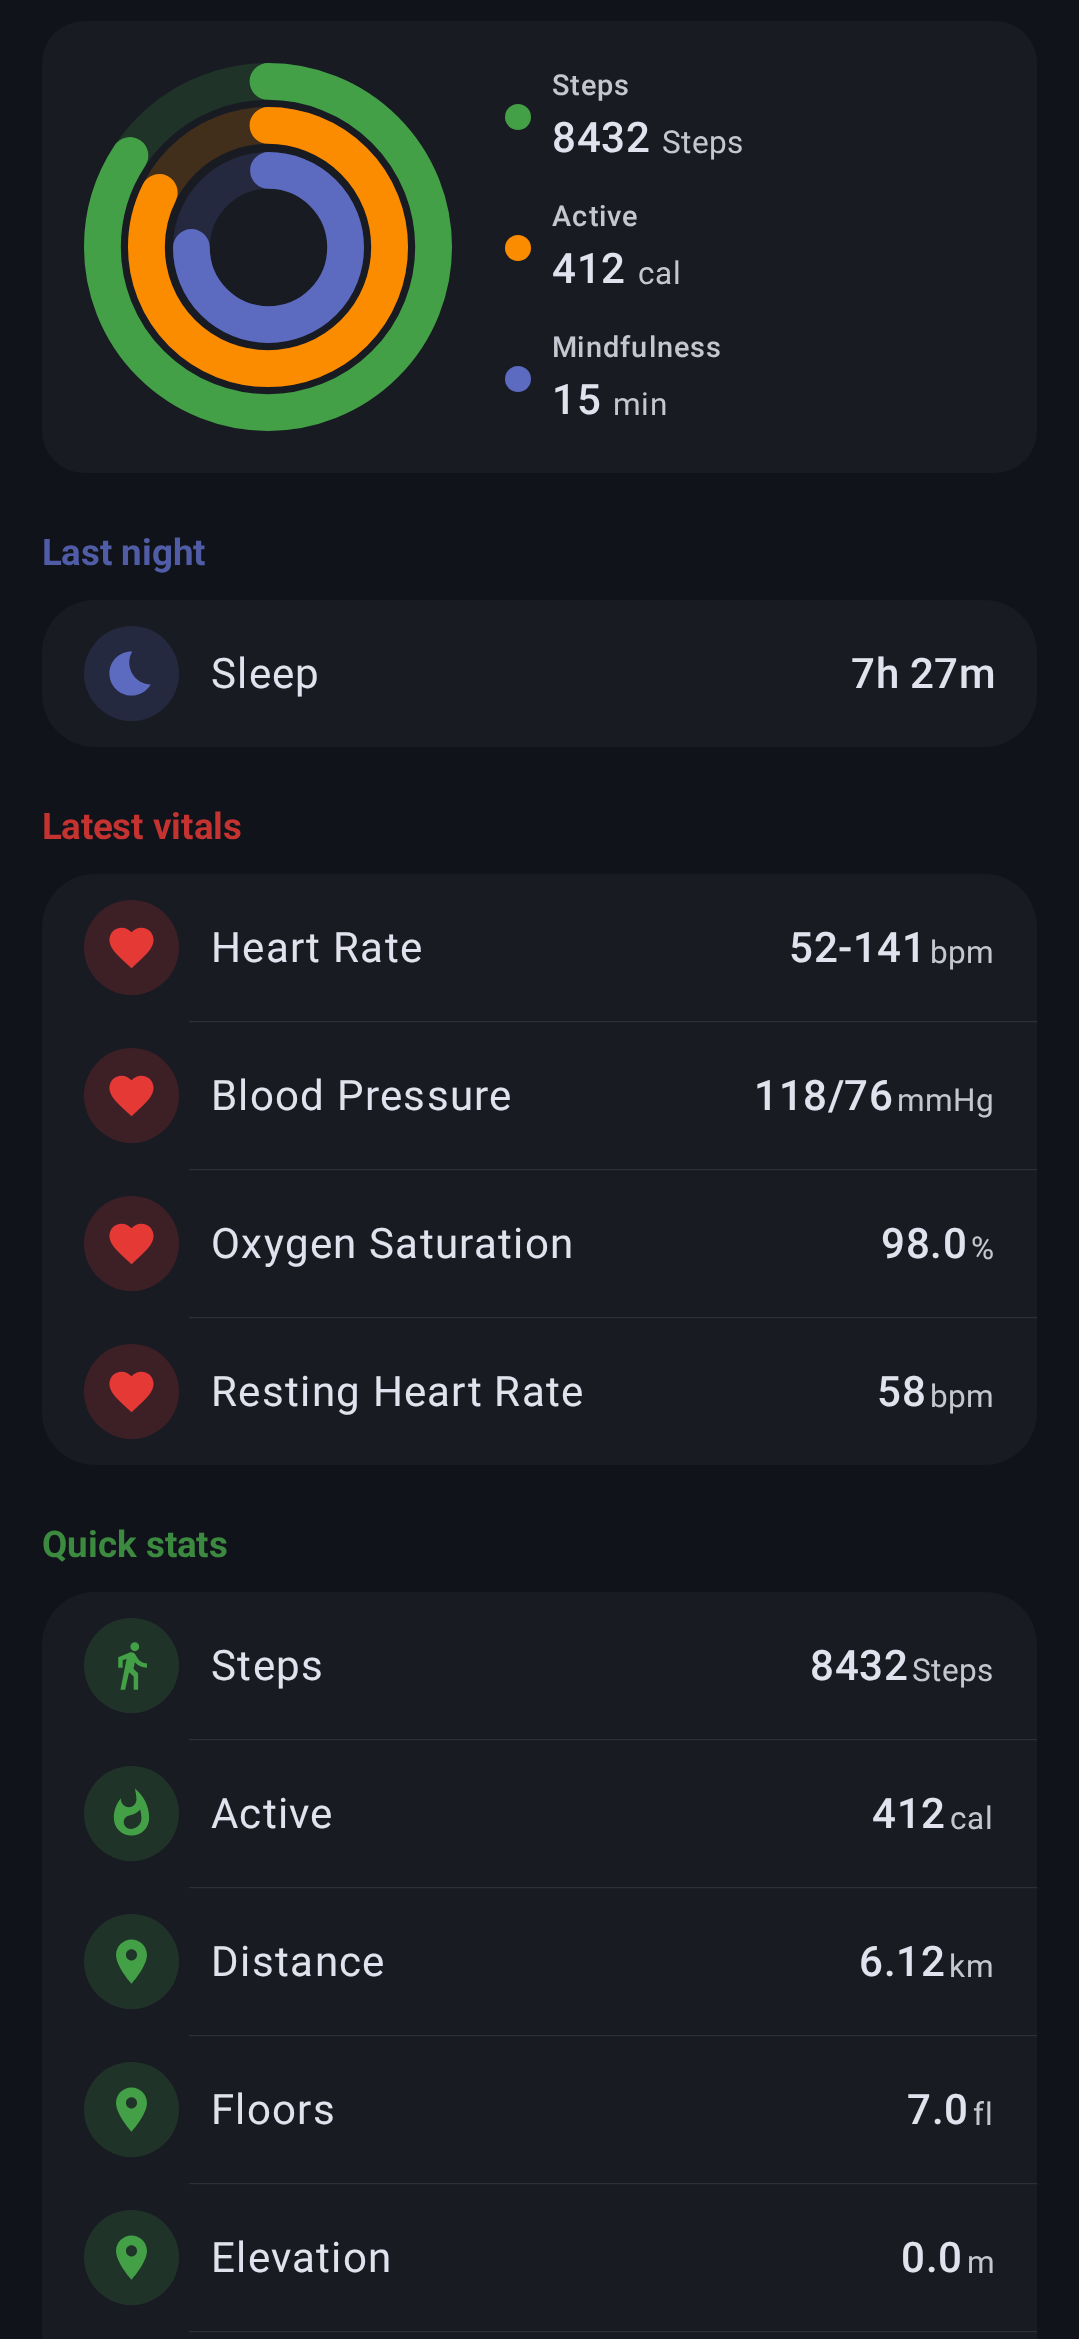
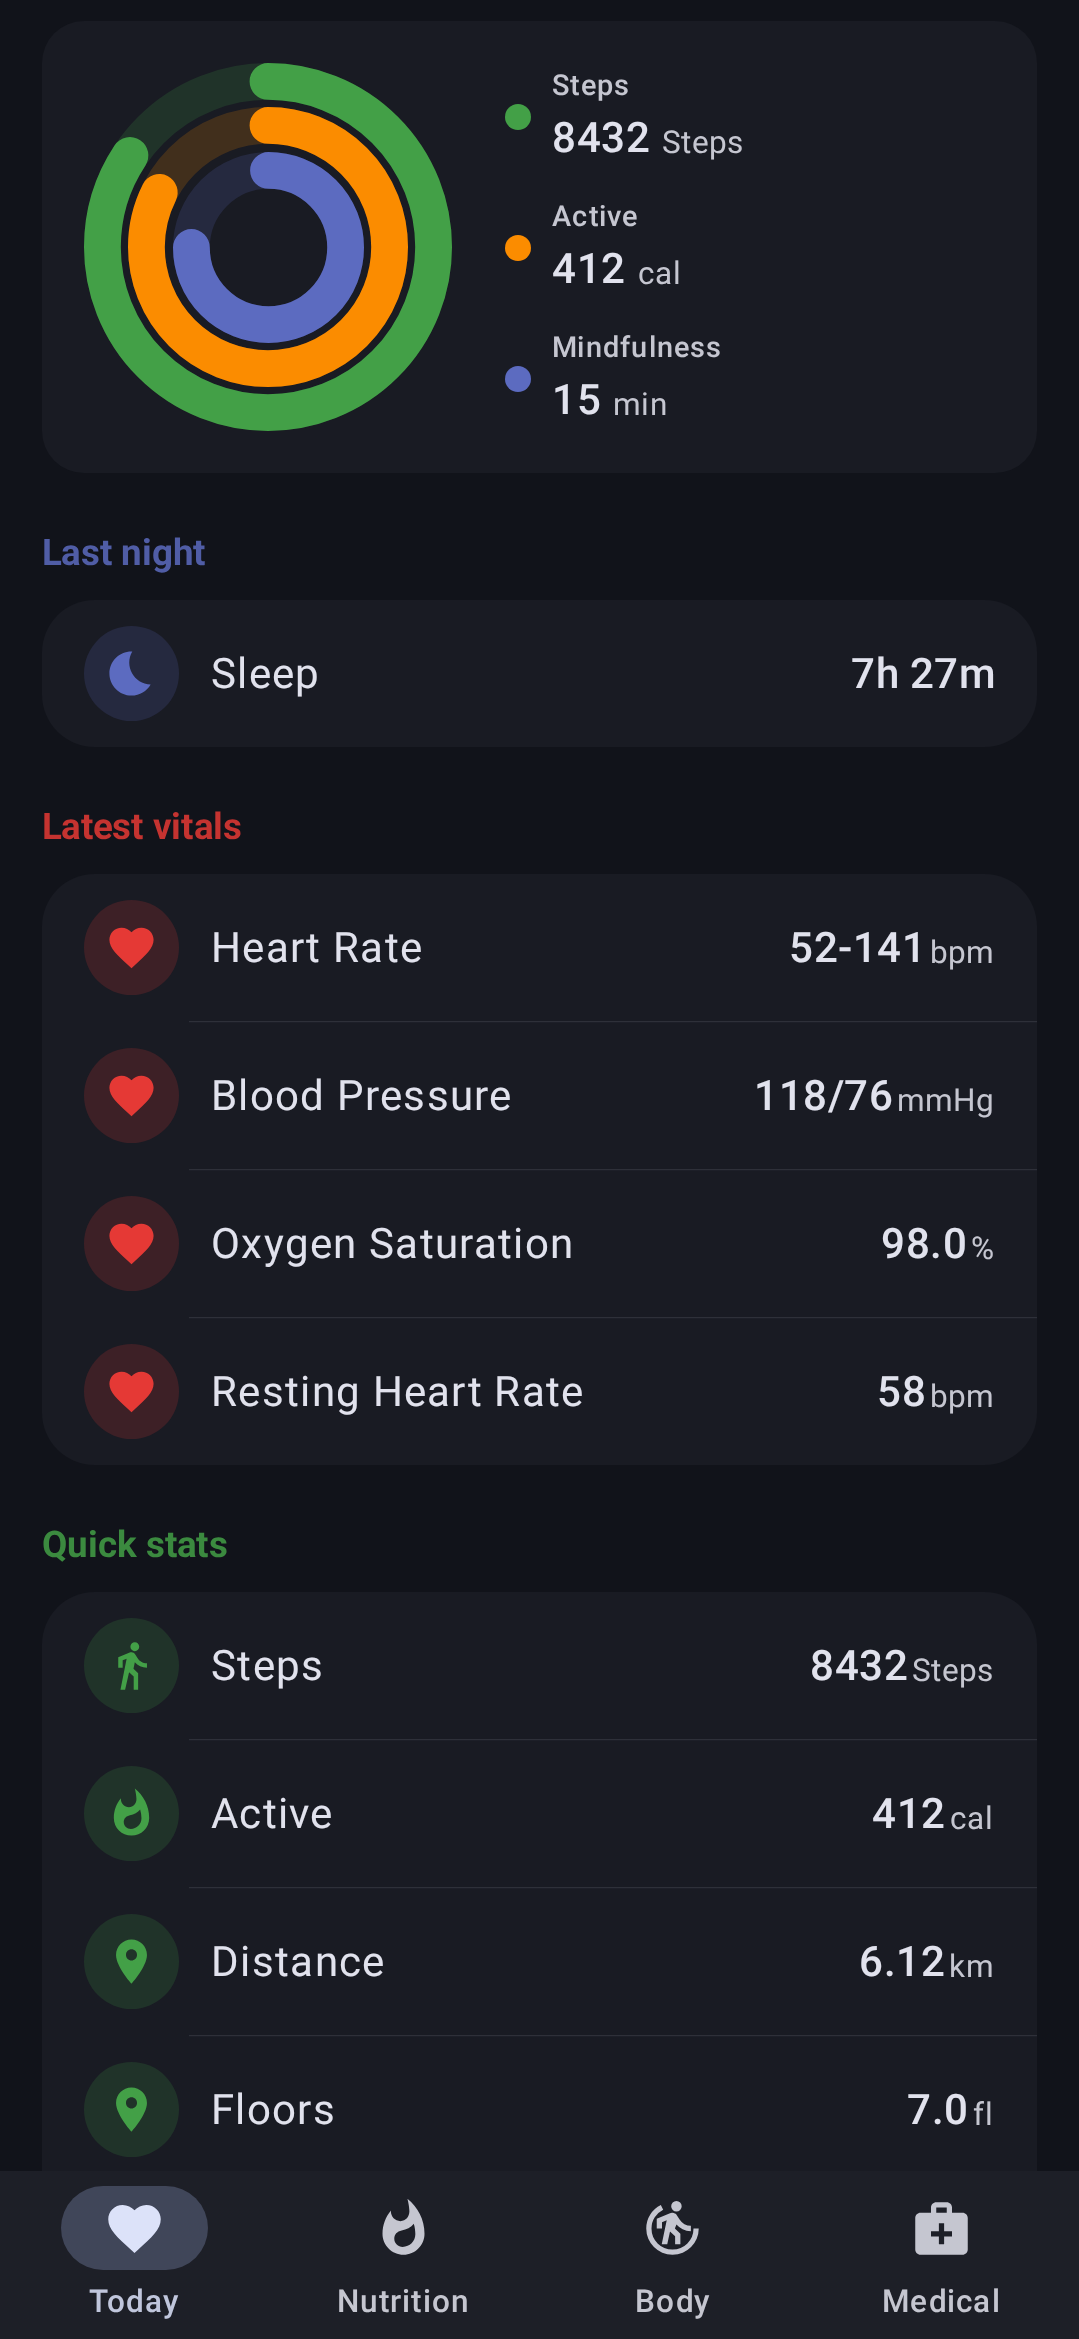
health: preview tab chrome in screenshots

diff --git a/health/src/screenshotTest/kotlin/com/vayunmathur/health/ui/MetadataPreviews.kt b/health/src/screenshotTest/kotlin/com/vayunmathur/health/ui/MetadataPreviews.kt
@@ -1,8 +1,15 @@
 package com.vayunmathur.health.ui
 
+import androidx.compose.foundation.layout.Box
+import androidx.compose.foundation.layout.fillMaxSize
 import androidx.compose.runtime.Composable
+import androidx.compose.runtime.CompositionLocalProvider
+import androidx.compose.ui.Modifier
 import androidx.compose.ui.tooling.preview.Preview
+import androidx.navigationevent.compose.LocalNavigationEventDispatcherOwner
+import androidx.navigationevent.compose.rememberNavigationEventDispatcherOwner
 import com.android.tools.screenshot.PreviewTest
+import com.vayunmathur.health.Route
 import com.vayunmathur.health.data.NutritionData
 import com.vayunmathur.health.util.MainPageMetrics
 import com.vayunmathur.health.util.MetricDetailsActions
@@ -12,6 +19,15 @@ import com.vayunmathur.health.util.NutritionUiState
 import com.vayunmathur.health.util.TodayActions
 import com.vayunmathur.health.util.TodayUiState
 import com.vayunmathur.library.ui.DynamicTheme
+import com.vayunmathur.library.ui.IconBodySystem
+import com.vayunmathur.library.ui.IconFavorite
+import com.vayunmathur.library.ui.IconFire
+import com.vayunmathur.library.ui.IconMedicalServices
+import com.vayunmathur.library.util.BottomBarItem
+import com.vayunmathur.library.util.BottomNavBar
+import com.vayunmathur.library.util.MainNavigation
+import com.vayunmathur.library.util.SiblingPage
+import com.vayunmathur.library.util.rememberNavBackStack
 import kotlinx.datetime.LocalDate
 
 /** Phone-shaped, roughly 1080x2340 at xxhdpi — comfortably above the F-Droid minimum. */
@@ -60,7 +76,7 @@ class MetadataPreviews {
     @Preview(name = "1-today", device = PHONE, group = "phone", showSystemUi = true)
     @Composable
     fun Preview1Today() {
-        DynamicTheme(darkTheme = true) {
+        ChromePreview(Route.Today) {
             TodayScreen(
                 state = TodayUiState(
                     steps = 8_432L,
@@ -87,7 +103,7 @@ class MetadataPreviews {
     @Preview(name = "2-nutrition", device = PHONE, group = "phone", showSystemUi = true)
     @Composable
     fun Preview2Nutrition() {
-        DynamicTheme(darkTheme = true) {
+        ChromePreview(Route.NutritionDetails) {
             NutritionScreen(
                 state = NutritionUiState(
                     totals = NutritionData(
@@ -122,7 +138,7 @@ class MetadataPreviews {
         val fullNames = listOf(
             "Sunday", "Monday", "Tuesday", "Wednesday", "Thursday", "Friday", "Saturday",
         )
-        DynamicTheme(darkTheme = true) {
+        ChromePreview(Route.BarChartDetails(HealthMetricConfig.STEPS)) {
             BarChartDetailsScreen(
                 state = MetricDetailsUiState(
                     config = HealthMetricConfig.STEPS,
@@ -159,7 +175,7 @@ class MetadataPreviews {
             78.0, 74.0, 76.0, 80.0, 84.0, 79.0, 77.0, 88.0,
             112.0, 134.0, 141.0, 96.0, 82.0, 74.0, 66.0, 60.0,
         )
-        DynamicTheme(darkTheme = true) {
+        ChromePreview(Route.BarChartDetails(HealthMetricConfig.HEART_RATE)) {
             BarChartDetailsScreen(
                 state = MetricDetailsUiState(
                     config = HealthMetricConfig.HEART_RATE,
@@ -198,7 +214,7 @@ class MetadataPreviews {
         val fullNames = listOf(
             "Sunday", "Monday", "Tuesday", "Wednesday", "Thursday", "Friday", "Saturday",
         )
-        DynamicTheme(darkTheme = true) {
+        ChromePreview(Route.BarChartDetails(HealthMetricConfig.STEPS)) {
             BarChartDetailsScreen(
                 state = MetricDetailsUiState(
                     config = HealthMetricConfig.STEPS,
@@ -221,6 +237,47 @@ class MetadataPreviews {
                 ),
                 actions = MetricDetailsActions.Noop,
             )
+        }
+    }
+
+    /**
+     * The app's real tab chrome around preview screen content: the same four
+     * [BottomBarItem]s and unconditional [MainNavigation] host the activity
+     * declares, with a literal back stack for the shown route. Body and Medical
+     * need their ViewModels, so their entries show an empty page (never visible —
+     * the stack stays on the previewed route).
+     */
+    @Composable
+    private fun ChromePreview(route: Route, content: @Composable () -> Unit) {
+        DynamicTheme(darkTheme = true) {
+            CompositionLocalProvider(
+                LocalNavigationEventDispatcherOwner provides rememberNavigationEventDispatcherOwner(
+                    parent = null,
+                ),
+            ) {
+                val backStack = rememberNavBackStack(route)
+                MainNavigation(
+                    backStack = backStack,
+                    bottomBar = {
+                        BottomNavBar(
+                            backStack = backStack,
+                            pages = listOf(
+                                BottomBarItem("Today", Route.Today) { IconFavorite() },
+                                BottomBarItem("Nutrition", Route.NutritionDetails) { IconFire() },
+                                BottomBarItem("Body", Route.Body) { IconBodySystem() },
+                                BottomBarItem("Medical", Route.Medical) { IconMedicalServices() },
+                            ),
+                            currentPage = backStack.last(),
+                        )
+                    },
+                ) {
+                    entry<Route.Today>(metadata = SiblingPage()) { content() }
+                    entry<Route.NutritionDetails>(metadata = SiblingPage()) { content() }
+                    entry<Route.BarChartDetails>(metadata = SiblingPage()) { content() }
+                    entry<Route.Body>(metadata = SiblingPage()) { Box(Modifier.fillMaxSize()) }
+                    entry<Route.Medical>(metadata = SiblingPage()) { Box(Modifier.fillMaxSize()) }
+                }
+            }
         }
     }
 }
